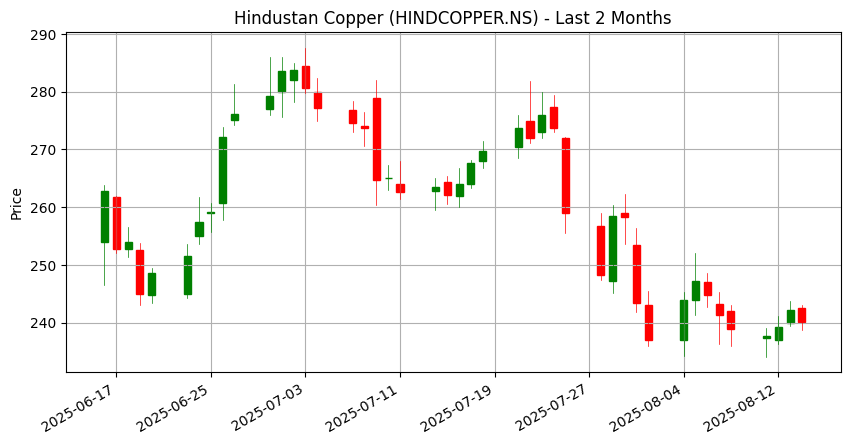
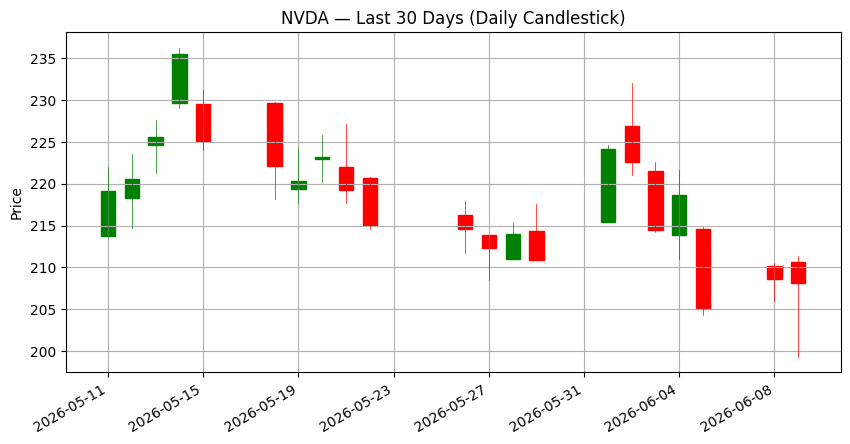
Added correct MCP image return logic and removed redundant docstrings

diff --git a/utils/visualization.py b/utils/visualization.py
@@ -1,29 +1,45 @@
-import base64
+import os
+import platform
+import subprocess
 from io import BytesIO
 
 import matplotlib.dates as mdates
 import matplotlib.pyplot as plt
 import pandas as pd
+from mcp.server.fastmcp import Image
 
 from utils.calculate_metrics import calculate_trading_opportunities
+
+_DATA_DIR = os.path.join(os.path.dirname(os.path.abspath(__file__)), "..", "data")
+os.makedirs(_DATA_DIR, exist_ok=True)
+
+
+def _open_file(filepath: str) -> None:
+    """Open a file with the system's default application."""
+    system = platform.system()
+    if system == "Darwin":
+        subprocess.Popen(["open", filepath])
+    elif system == "Linux":
+        subprocess.Popen(["xdg-open", filepath])
+    elif system == "Windows":
+        os.startfile(filepath)
+
+
+def _save_and_return(buf: BytesIO, filename: str) -> Image:
+    img_bytes = buf.read()
+    filepath = os.path.join(_DATA_DIR, filename)
+    with open(filepath, "wb") as f:
+        f.write(img_bytes)
+    _open_file(filepath)
+    return Image(data=img_bytes, format="png")
 
 
 def plot_price_chart(
     prices: list,
     chart_type: str = "line",
     title: str = "Price Chart",
-    filename: str = None,
-) -> dict:
-    """
-    Plots a price chart (line or candlestick) from OHLCV data.
-    Args:
-        prices: List of dicts with keys 'date', 'open', 'high', 'low', 'close', 'volume'.
-        chart_type: 'line' or 'candlestick'.
-        title: Chart title.
-        filename: Optional filename to save the plot.
-    Returns:
-        Dict with 'file_path' and 'base64' of the image.
-    """
+    filename: str | None = None,
+) -> Image:
     from matplotlib.ticker import MaxNLocator
 
     df = pd.DataFrame(prices)
@@ -36,14 +52,14 @@ def plot_price_chart(
         try:
             from mplfinance.original_flavor import candlestick_ohlc
         except ImportError:
-            return {"error": "mplfinance is required for candlestick charts"}
+            raise ImportError("mplfinance is required for candlestick charts")
         df_ohlc = df[["date", "open", "high", "low", "close"]].copy()
         df_ohlc["date"] = mdates.date2num(df_ohlc["date"])
         candlestick_ohlc(ax, df_ohlc.values, width=0.6, colorup="g", colordown="r")
         ax.xaxis.set_major_formatter(mdates.DateFormatter("%Y-%m-%d"))
         ax.set_ylabel("Price")
     else:
-        return {"error": f"Unknown chart_type: {chart_type}"}
+        raise ValueError(f"Unknown chart_type: {chart_type}")
     ax.set_title(title)
     ax.xaxis.set_major_locator(MaxNLocator(integer=True))
     ax.grid(True)
@@ -52,12 +68,7 @@ def plot_price_chart(
     plt.savefig(buf, format="png", bbox_inches="tight")
     plt.close(fig)
     buf.seek(0)
-    img_base64 = base64.b64encode(buf.read()).decode("utf-8")
-    if not filename:
-        filename = f"./data/price_chart_{chart_type}.png"
-    with open(filename, "wb") as f:
-        f.write(base64.b64decode(img_base64))
-    return {"file_path": filename, "base64": img_base64}
+    return _save_and_return(buf, filename or f"price_chart_{chart_type}.png")
 
 
 def plot_financial_metric(
@@ -65,22 +76,11 @@ def plot_financial_metric(
     values: list,
     metric_name: str = "Metric",
     title: str = "Financial Metric",
-    filename: str = None,
-) -> dict:
-    """
-    Plots a financial metric over time.
-    Args:
-        dates: List of date strings.
-        values: List of metric values.
-        metric_name: Name of the metric.
-        title: Chart title.
-        filename: Optional filename to save the plot.
-    Returns:
-        Dict with 'file_path' and 'base64' of the image.
-    """
+    filename: str | None = None,
+) -> Image:
     fig, ax = plt.subplots(figsize=(10, 5))
-    dates = pd.to_datetime(dates)
-    ax.plot(dates, values, marker="o", label=metric_name)
+    parsed_dates = pd.to_datetime(dates)
+    ax.plot(parsed_dates, values, marker="o", label=metric_name)
     ax.set_title(title)
     ax.set_xlabel("Date")
     ax.set_ylabel(metric_name)
@@ -91,36 +91,18 @@ def plot_financial_metric(
     plt.savefig(buf, format="png", bbox_inches="tight")
     plt.close(fig)
     buf.seek(0)
-    img_base64 = base64.b64encode(buf.read()).decode("utf-8")
-    if not filename:
-        filename = f"./data/financial_metric_{metric_name}.png"
-    with open(filename, "wb") as f:
-        f.write(base64.b64decode(img_base64))
-    return {"file_path": filename, "base64": img_base64}
+    return _save_and_return(buf, filename or f"financial_metric_{metric_name}.png")
 
 
 def plot_comparison_chart(
     dates: list,
     series: dict,
     title: str = "Comparison Chart",
-    filename: str = None,
+    filename: str | None = None,
     normalized: bool = False,
-) -> dict:
-    """
-    Plots a comparison chart for multiple tickers or metrics.
-    Args:
-        dates: List of date strings.
-        series: Dict where keys are labels and values are lists of values for each date.
-        title: Chart title.
-        filename: Optional filename to save the plot.
-        normalized: If True, rebase all series to 100 at the first data point so
-                    tickers with very different price levels (e.g. NVDA vs AMD) are
-                    directly comparable on the same axis.
-    Returns:
-        Dict with 'file_path' and 'base64' of the image.
-    """
+) -> Image:
     fig, ax = plt.subplots(figsize=(10, 5))
-    dates = pd.to_datetime(dates)
+    parsed_dates = pd.to_datetime(dates)
     for label, values in series.items():
         if normalized:
             first = next((v for v in values if v is not None and v != 0), None)
@@ -130,7 +112,7 @@ def plot_comparison_chart(
             ]
         else:
             plot_values = values
-        ax.plot(dates, plot_values, marker="o", label=label)
+        ax.plot(parsed_dates, plot_values, marker="o", label=label)
     ax.set_title(title)
     ax.set_xlabel("Date")
     ax.set_ylabel("Indexed Value (base = 100)" if normalized else "Value")
@@ -141,33 +123,15 @@ def plot_comparison_chart(
     plt.savefig(buf, format="png", bbox_inches="tight")
     plt.close(fig)
     buf.seek(0)
-    img_base64 = base64.b64encode(buf.read()).decode("utf-8")
-    if not filename:
-        filename = "./data/comparison_chart.png"
-    with open(filename, "wb") as f:
-        f.write(base64.b64decode(img_base64))
-    return {"file_path": filename, "base64": img_base64}
+    return _save_and_return(buf, filename or "comparison_chart.png")
 
 
 def plot_trading_opportunities(
-    prices: dict,
+    prices: list,
     short_window: int = 9,
     long_window: int = 21,
     title: str = "Trading Opportunities",
-) -> dict:
-    """
-    Plots price data with trading signals/opportunities. Create signals based on crossovers:
-    - A 'Golden Cross' (bullish signal) occurs when the short-term MA crosses above the long-term MA.
-    - A 'Death Cross' (bearish signal) occurs when the short-term MA crosses below the long-term MA.
-    Args:
-        prices: Dict of lists (columnar format) with keys 'date', 'open', 'high', 'low', 'close', 'volume'.
-        short_window: Short window for the short moving average.
-        long_window: Long window for the long moving average.
-        title: Chart title.
-    Returns:
-        Dict with 'file_path' and/or 'base64' of the image.
-    """
-    # Convert columnar format to DataFrame
+) -> Image:
     prices_df = pd.DataFrame(prices)
     prices_df["date"] = pd.to_datetime(prices_df["date"])
     prices_df = calculate_trading_opportunities(prices_df, short_window, long_window)
@@ -223,8 +187,4 @@ def plot_trading_opportunities(
     plt.savefig(buf, format="png", bbox_inches="tight")
     plt.close(fig)
     buf.seek(0)
-    img_base64 = base64.b64encode(buf.read()).decode("utf-8")
-    filename = "./data/trading_opportunities.png"
-    with open(filename, "wb") as f:
-        f.write(base64.b64decode(img_base64))
-    return {"file_path": filename, "base64": img_base64}
+    return _save_and_return(buf, "trading_opportunities.png")

diff --git a/tools/plot.py b/tools/plot.py
@@ -1,3 +1,5 @@
+from mcp.server.fastmcp import Image
+
 from server import mcp
 from utils.visualization import (
     plot_comparison_chart,
@@ -12,8 +14,8 @@ def mcp_plot_price_chart(
     prices: list,
     chart_type: str = "line",
     title: str = "Price Chart",
-    filename: str = None,
-) -> dict:
+    filename: str | None = None,
+) -> Image:
     """
     Generates a price chart (line or candlestick) from OHLCV data.
     Args:
@@ -22,7 +24,7 @@ def mcp_plot_price_chart(
         title: Chart title.
         filename: Optional filename to save the plot.
     Returns:
-        Dict with 'file_path' and 'base64' of the image.
+        An Image object (PNG) of the chart. The image is also saved to the data/ directory.
     """
     return plot_price_chart(prices, chart_type, title, filename)
 
@@ -33,8 +35,8 @@ def mcp_plot_financial_metric(
     values: list,
     metric_name: str = "Metric",
     title: str = "Financial Metric",
-    filename: str = None,
-) -> dict:
+    filename: str | None = None,
+) -> Image:
     """
     Plots a financial metric over time.
     Args:
@@ -44,7 +46,7 @@ def mcp_plot_financial_metric(
         title: Chart title.
         filename: Optional filename to save the plot.
     Returns:
-        Dict with 'file_path' and 'base64' of the image.
+        An Image object (PNG) of the chart. The image is also saved to the data/ directory.
     """
     return plot_financial_metric(dates, values, metric_name, title, filename)
 
@@ -54,9 +56,9 @@ def mcp_plot_comparison_chart(
     dates: list,
     series: dict,
     title: str = "Comparison Chart",
-    filename: str = None,
+    filename: str | None = None,
     normalized: bool = False,
-) -> dict:
+) -> Image:
     """
     Plots a comparison chart for multiple tickers or financial metrics over time.
     Args:
@@ -68,7 +70,7 @@ def mcp_plot_comparison_chart(
                     tickers with very different price levels (e.g. NVDA vs AMD) directly
                     comparable. The Y-axis will read "Indexed Value (base = 100)".
     Returns:
-        Dict with 'file_path' and 'base64' of the image.
+        An Image object (PNG) of the chart. The image is also saved to the data/ directory.
     """
     return plot_comparison_chart(dates, series, title, filename, normalized)
 
@@ -79,7 +81,7 @@ def mcp_plot_trading_opportunities(
     short_window: int = 9,
     long_window: int = 21,
     title: str = "Trading Opportunities",
-) -> dict:
+) -> Image:
     """
     Plots price data with trading signals/opportunities.
     Args:
@@ -88,6 +90,6 @@ def mcp_plot_trading_opportunities(
         long_window: Long window for the long moving average. Default is 21.
         title: Chart title.
     Returns:
-        Dict with 'file_path' and 'base64' of the image.
+        An Image object (PNG) of the chart. The image is also saved to the data/ directory.
     """
     return plot_trading_opportunities(prices, short_window, long_window, title)

diff --git a/utils/calculate_metrics.py b/utils/calculate_metrics.py
@@ -110,7 +110,7 @@ def calculate_technical_indicators(
 
 
 def calculate_trading_opportunities(
-    prices: list, short_window: int, long_window: int
+    prices: pd.DataFrame, short_window: int, long_window: int
 ) -> pd.DataFrame:
     """
     Calculates trading opportunities from price data. Create signals based on crossovers: